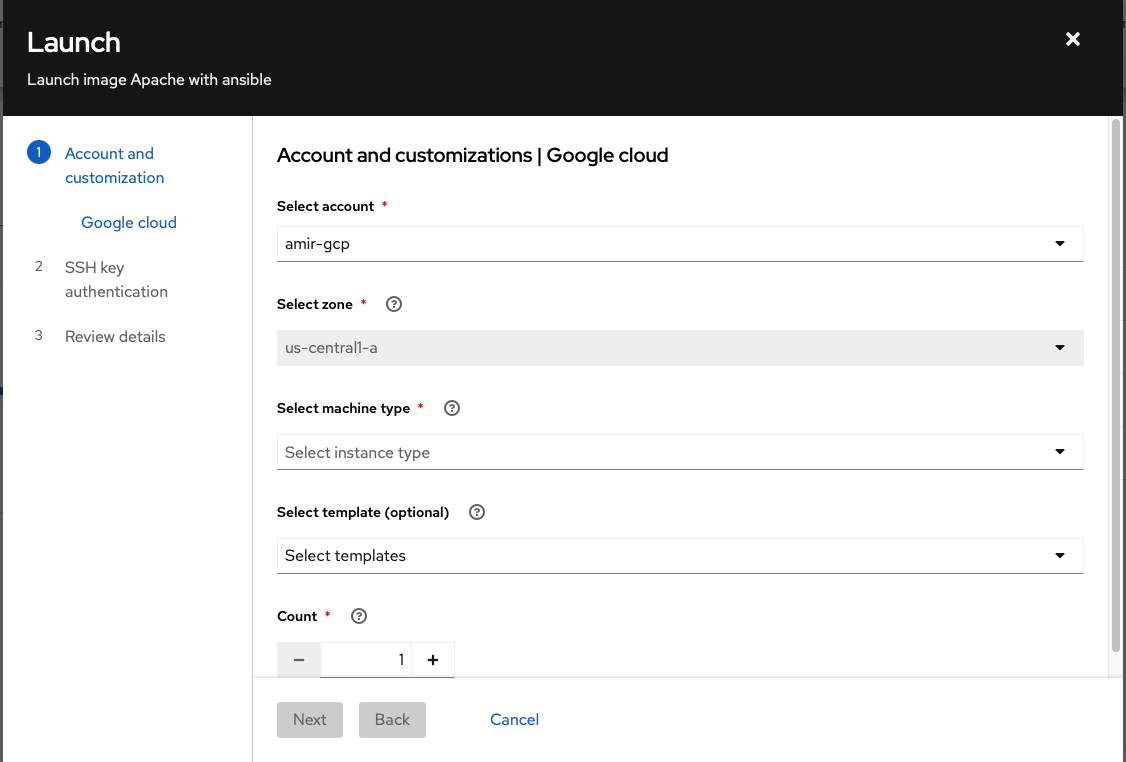
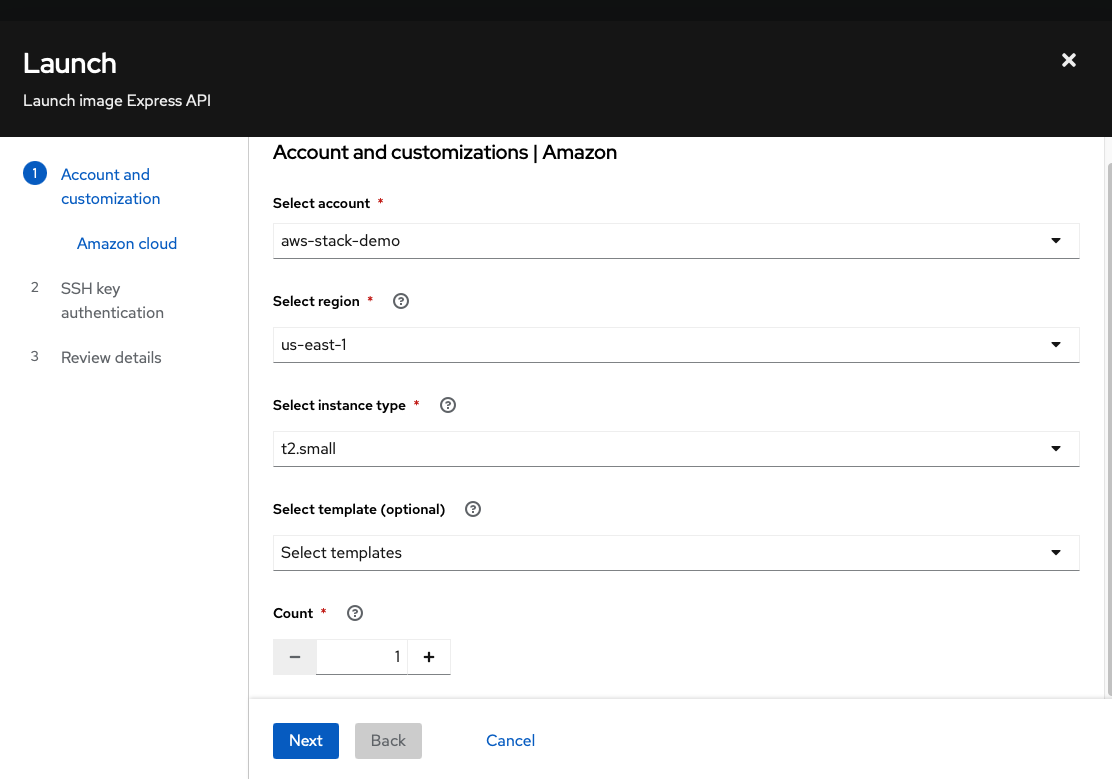
Add AWS new integration

diff --git a/README.md b/README.md
@@ -35,32 +35,22 @@ To get started, follow these steps to register for the Red Hat Developer Subscri
 
 ## Using Red Hat Cloud Services
 
-### 1. Public cloud integration setup
+### 1. Public cloud integration setup (AWS)
 
-To deploy your new system to the public cloud, let's create a cloud integration. In this post, we use Google Cloud, but you may pick another cloud provider (AWS, Azure). This step is optional, you may create blueprints and build custom images as iso installer and qcow2.
+To deploy your new system to the public cloud, let's create a cloud integration. In this tutorial, we'll use AWS, but you can choose another cloud provider such as GCP or Azure. This step is optional; you may also create blueprints and build custom images as ISO installers and QCOW2 for virtual machines.
 
-*For initial setup, [gcloud cli](https://cloud.google.com/sdk/docs/install) is required*
+![AWS integration wizard](AWS_integration.png)
 
-1. Visit the [Red Hat Integrations page](https://console.redhat.com/settings/integrations)
+1. Visit the [Red Hat Integrations page](https://console.redhat.com/settings/integrations).
+2. Navigate to the Cloud tab and click on Add Integration.
+3. Choose your cloud provider (in this example, AWS).
+4. Assign a name to this integration profile; we'll use this profile name in the following steps.
+5. Select the Launch Images application.
+6. Enter your AWS account number.
+7. Click Connect AWS. This will open a new window and redirect you to the AWS CloudFormation stack    creation page. Click on Create Stack to generate the required policy and role for this integration.
+8. Return to the Red Hat wizard page, click Next, verify the created role's ARN and add the new integration.
 
-2. In the **Cloud** tab click on **Add integration**
-3. Choose a cloud provider (Google Cloud)
-4. Give it a name, we will use this profile name in the next steps
-5. Choose **Launch images** application
-6. Enter your Google Cloud **project ID**
-7. Using your terminal create a custom role with the required permissions for this integration
-    ```shell
-    ROLE_NAME=$(gcloud iam roles create RH_HCC_provisioning_role --project=<YOUR_PROJECT_ID> --title=RH_HCC_provisioning_role --permissions=compute.disks.create,compute.images.useReadOnly,compute.instanceTemplates.create,compute.instanceTemplates.list,compute.instanceTemplates.useReadOnly,compute.instances.create,compute.instances.get,compute.instances.list,compute.instances.setLabels,compute.instances.setMetadata,compute.instances.setServiceAccount,compute.networks.useExternalIp,compute.subnetworks.use,compute.subnetworks.useExternalIp,iam.roles.get,iam.serviceAccounts.actAs,iam.serviceAccounts.getIamPolicy,resourcemanager.projects.getIamPolicy,serviceusage.services.use,compute.instances.setTags,compute.regions.list | grep -oP 'name:\s+\K.+')
-    ```
-    *For mac users, use ```ggrep``` instead*
-
-8. Attach the new role to Red Hat service account
-
-```shell
-gcloud projects add-iam-policy-binding <YOUR_PROJECT_ID> --member=serviceAccount:provisioning@red-hat-hcc.iam.gserviceaccount.com --role=$ROLE_NAME
-```
-9. Back in your browser review details and click **Add**
-
+Your new cloud integration is now ready.
 
 ### 2. Create and Customize a Red Hat Linux Image via blueprints
 
@@ -204,8 +194,8 @@ The build process takes a few minutes, once the image has been built successfull
 ![launch wizard](launch_wizard.png)
 
 1. **Compute configuration:**
- - Select your Google Cloud source.
- - Select a machine type, you can filter by vcpus, memory, and capacity. Type *vcpus=1 and memory>2000* and pick **n1-standard-1** for this demo.
+ - Select your AWS integration.
+ - Select a instance type, you can filter by vcpus, memory, and capacity. Type *vcpus=1 and memory>2000* and pick **t2.small** for this demo.
 2. **SSH key:**
 Keep in mind some cloud providers no longer support RSA SSH key types. 
  - You can create a new public key by running ```ssh-keygen -t ed25519``` on your terminal.
@@ -215,8 +205,7 @@ Keep in mind some cloud providers no longer support RSA SSH key types.
 
 ### 4. Expose HTTP connection
 
-To allow HTTP connection to our GCP instance, log in to your GCP console -> VM Instances -> Edit your new instance -> Enable Allow HTTP traffic under **Network interfaces** section.
-For the express example, create a custom firewall rule for opening port 3000.
+To allow HTTP connections or any other inbound traffic, log in to your AWS console and add the desired rule in the created VM's associated VPC security group.
 
 And that's it! your new Apache server / express API is running with your custom RHEL image!
 
